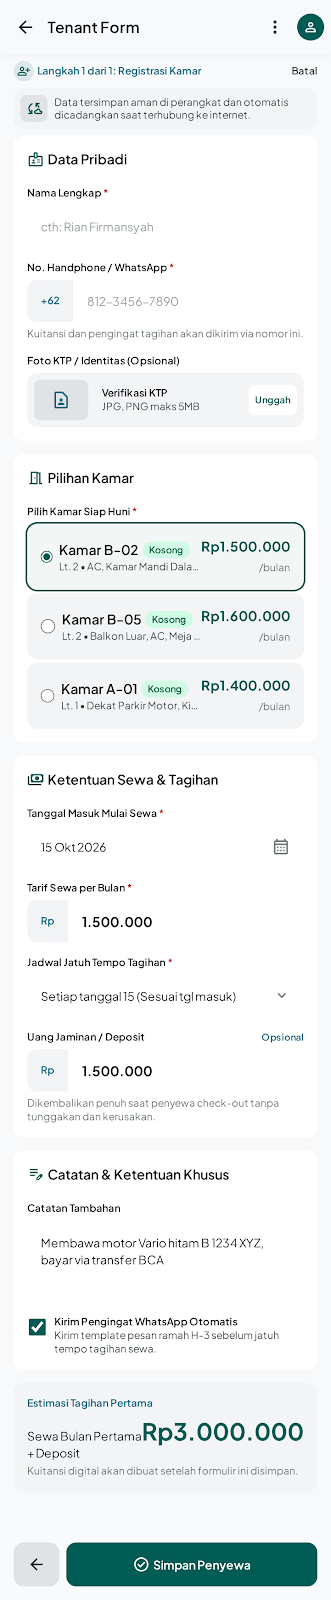
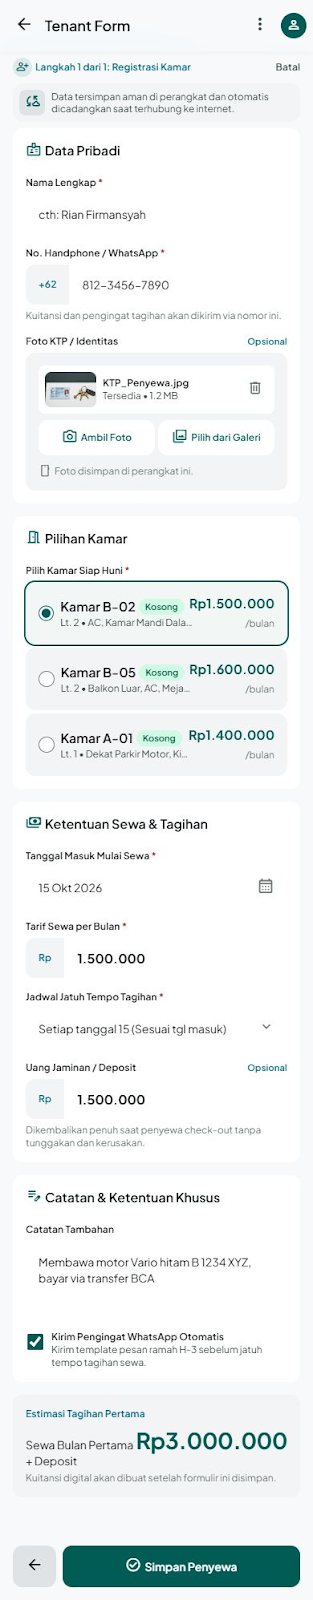
feat(core): tema dan komponen bersama, audit TASKS.md

diff --git a/docs/DESIGN.md b/docs/DESIGN.md
@@ -14,7 +14,7 @@
 ### Mode Terang
 | Token | Hex | Pemakaian |
 |---|---|---|
-| `primary` | `#0F766E` | Tombol utama, tab aktif, tautan |
+| `primary` | `#005C55` | Tombol utama, tab aktif, tautan |
 | `onPrimary` | `#FFFFFF` | Teks di atas primary |
 | `primaryContainer` | `#CCFBF1` | Latar chip/aksen lembut |
 | `onPrimaryContainer` | `#134E4A` | Teks di atas primaryContainer |
@@ -25,6 +25,9 @@
 | `textPrimary` | `#0F172A` | Teks utama |
 | `textSecondary` | `#475569` | Teks pendukung |
 | `textTertiary` | `#94A3B8` | Placeholder, label non-aktif |
+| surfaceMuted| #F1F5F9 | Wadah dalam kartu, area input |
+| surfaceMuted| #18233A |
+
 
 ### Mode Gelap
 | Token | Hex |
@@ -54,7 +57,7 @@
 Aturan: status **tidak boleh hanya dibedakan warna**; selalu sertakan teks (dan ikon bila perlu).
 
 ## 3. Tipografi
-Font: **Plus Jakarta Sans** (via `google_fonts`). Angka uang memakai tabular figures.
+Font: **Plus Jakarta Sans** (via `dibundel sebagai aset lokal di assets/fonts/`). Angka uang memakai tabular figures.
 
 | Gaya | Ukuran/Berat | Pemakaian |
 |---|---|---|

diff --git a/docs/TASKS.md b/docs/TASKS.md
@@ -85,3 +85,13 @@
   - T0.3 [x] Selesai: Token warna, tipografi font lokal, spasi, radius, tema M3 terang/gelap + unit test lolos.
   - T0.4 [x] Selesai: 11 komponen bersama + preview visual + unit & widget test lolos.
   - T0.5 - T0.8 [ ] Belum selesai: Menunggu penyelesaian T0.1 dan T0.2.
+- 2026-10-25 (Audit Menyeluruh Kode vs TASKS.md):
+  - Status tugas terverifikasi:
+    - T0.1 [~] Sebagian (proyek Flutter Android siap, subfolder features, l10n, dan subfolder core lainnya belum dibuat).
+    - T0.2 [ ] Belum (package inti riverpod, go_router, drift, intl, uuid belum ditambahkan di pubspec.yaml).
+    - T0.3 [x] Selesai (token tema app_colors, app_text_styles, app_spacing, app_radius, app_theme terang & gelap, aset font lokal Plus Jakarta Sans).
+    - T0.4 [x] Selesai (11 komponen bersama + SyncIndicator, preview page, widget/unit test).
+    - T0.5 - T0.8 [ ] Belum dikerjakan.
+    - Fase 1 s/d Fase 5: [ ] Seluruhnya belum dikerjakan.
+  - Bukti verifikasi kualitas: `flutter analyze` 0 issues, `flutter test` lulus (13/13 test passed).
+
